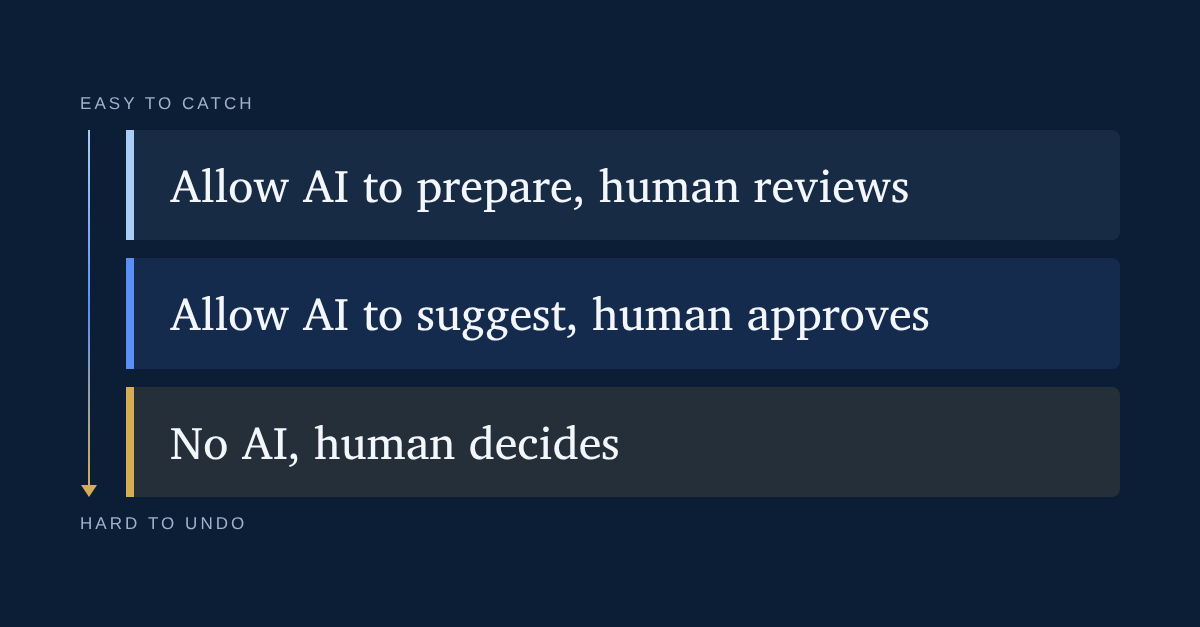
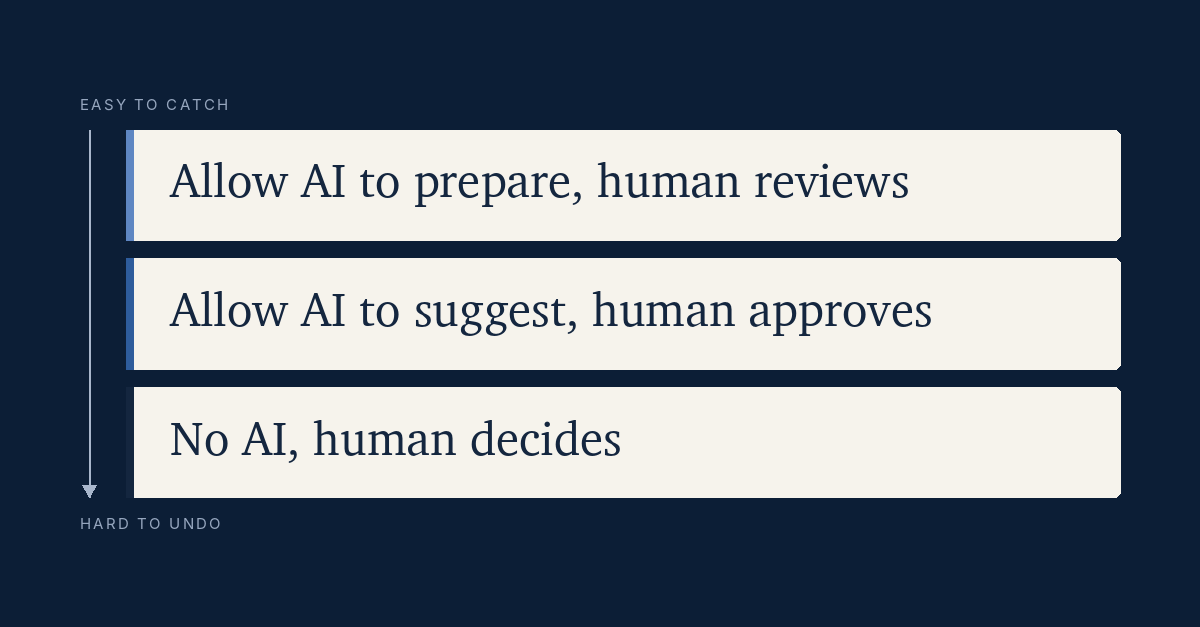
Article: tier colours, plainer wording, restyled follow band, refreshed card and link preview
Claude-Session: https://claude.ai/code/session_01JedePvJQ8Qd9hmyDd4eBzK

diff --git a/articles/start-where-mistakes-are-cheap/index.html b/articles/start-where-mistakes-are-cheap/index.html
@@ -57,6 +57,7 @@
 
   .art-head { padding: 52px 0 8px; }
   .back-bar { position: sticky; top: var(--sn-h, 52px); z-index: 15; background: var(--white); border-bottom: 1px solid var(--line); }
+  .back-bar .wrap { padding-top: 6px; padding-bottom: 6px; }
   .back-link { display: inline-flex; align-items: center; min-height: 44px; font-family: var(--sans); font-size: 15px; font-weight: 600; color: var(--navy); text-decoration: none; }
   .back-link:hover { color: var(--gold-text); }
   .kicker { font-family: var(--sans); font-size: 12px; letter-spacing: 0.16em; text-transform: uppercase; font-weight: 700; color: var(--gold-text); }
@@ -74,7 +75,7 @@
   .tiers .l { display: block; font-size: 16.5px; font-weight: 700; line-height: 1.3; }
   .glance .note { margin: 12px 0 0; font-family: var(--sans); font-size: 13.5px; color: var(--muted); }
   .tiers .t { display: block; font-size: 15px; line-height: 1.45; color: var(--muted); margin-top: 3px; }
-  .t1 { border-color: var(--pale) !important; } .t2 { border-color: var(--blue) !important; } .t3 { border-color: var(--gold) !important; }
+  .t1 { border-color: #5E86C2 !important; } .t2 { border-color: #2E5C9C !important; } .t3 { border-color: var(--navy) !important; }
 
   h2 { font-family: var(--serif); font-weight: 700; font-size: clamp(25px, 3.4vw, 30px); line-height: 1.2; margin: 52px 0 14px; letter-spacing: -0.005em; }
   h3 { font-family: var(--sans); font-weight: 700; font-size: 18px; line-height: 1.3; margin: 30px 0 8px; padding-left: 14px; border-left: 5px solid; }
@@ -82,16 +83,17 @@
   ul.tasks li { position: relative; margin: 0 0 6px; padding-left: 18px; }
   ul.tasks li::before { content: ""; position: absolute; left: 0; top: 0.62em; width: 8px; height: 8px; border-radius: 50%; background: currentColor; }
   ul.tasks { border: 0 !important; }
-  ul.tasks.t1 li::before { background: var(--pale); } ul.tasks.t2 li::before { background: var(--blue); } ul.tasks.t3 li::before { background: var(--gold); }
+  ul.tasks.t1 li::before { background: #5E86C2; } ul.tasks.t2 li::before { background: #2E5C9C; } ul.tasks.t3 li::before { background: var(--navy); }
   p { margin: 0 0 18px; }
   ol { margin: 0 0 18px; padding-left: 26px; }
   ol li { margin: 0 0 10px; padding-left: 4px; }
   .key { font-style: italic; font-size: 23px; line-height: 1.42; color: var(--navy); margin: 36px 0; padding: 4px 0 4px 20px; border-left: 3px solid var(--gold-light); }
   .box { background: var(--paper); border-radius: 8px; padding: 20px 24px 4px; margin: 40px 0 0; }
   .box .kicker { margin-bottom: 8px; }
-  .follow { margin-top: 40px; padding: 20px 24px; background: var(--paper); border-radius: 8px; font-family: var(--sans); font-size: 16px; line-height: 1.5; }
+  .follow { margin-top: 40px; padding: 22px 26px 12px; background: var(--navy-deep); color: var(--white); border-radius: 8px; font-family: var(--sans); font-size: 16px; line-height: 1.5; }
   .follow p { margin: 0 0 12px; }
-  .follow a { display: inline-block; min-height: 44px; line-height: 44px; margin-right: 20px; font-weight: 600; color: var(--navy); text-decoration: none; border-bottom: 2px solid var(--gold); }
+  .follow a { display: inline-block; min-height: 44px; line-height: 44px; margin-right: 22px; font-weight: 600; color: var(--white); text-decoration: none; border-bottom: 2px solid var(--gold-light); }
+  .follow a:focus-visible { outline-color: var(--gold-light); }
   .end { border-top: 1px solid var(--line); margin-top: 48px; padding: 18px 0 8px; font-family: var(--sans); font-size: 14px; line-height: 1.55; color: var(--muted); }
   footer { border-top: 1px solid var(--line); padding: 20px 0 40px; font-family: var(--sans); font-size: 13px; color: var(--muted); }
 
@@ -159,11 +161,11 @@
       <li class="t2"><span class="l">Allow AI to suggest, human approves</span><span class="t">Cash sweeps &middot; Hedge execution</span></li>
       <li class="t3"><span class="l">No AI, human decides</span><span class="t">Payment release</span></li>
     </ul>
-    <p class="note">Examples only, not a full list.</p>
+    <p class="note">A darker bar means higher risk and less AI. Examples only, not a full list.</p>
   </section>
 
   <p>Most Treasury teams are under pressure to show progress on AI. The first question is usually what AI can do. A better question is what happens when it gets something wrong.</p>
-  <p>An AI mistake can be cheap or costly, depending on the task. If AI drafts a cash commentary with a wrong number, the reader spots it and you lose ten minutes. If AI releases a payment to the wrong supplier, nobody notices until the supplier calls, and the money may not come back. Start with tasks like the first, not the second.</p>
+  <p>An AI mistake can cost little or a lot, depending on the task. If AI drafts a cash commentary with a wrong number, the reader spots it and you lose ten minutes. If AI releases a payment to the wrong supplier, nobody notices until the supplier calls, and the money may not come back. Start with tasks like the first, not the second.</p>
 
   <h2>Four questions to ask before handing a task to AI</h2>
   <ol>
@@ -174,30 +176,16 @@
   </ol>
 
   <h2>Which Treasury tasks can AI automate?</h2>
-  <p>Apply the four questions above, and most Treasury tasks fall into three groups. Here are typical examples of each.</p>
+  <p>Apply the four questions above, and most Treasury tasks fall into three groups. The examples are in the box at the top. Here is how each group works.</p>
 
   <h3 class="t1">Allow AI to prepare, human reviews</h3>
-  <ul class="tasks t1">
-    <li>Cash commentary</li>
-    <li>Forecast versus actual notes</li>
-    <li>Bank queries</li>
-    <li>Flagging exceptions</li>
-  </ul>
   <p><em>Why it&rsquo;s safe:</em> a person reads the output before anything is sent or posted, and the source data is close at hand. If AI gets it wrong, you lose only a few minutes.</p>
 
   <h3 class="t2">Allow AI to suggest, human approves</h3>
-  <ul class="tasks t2">
-    <li>Cash sweeps</li>
-    <li>Hedge execution</li>
-  </ul>
   <p><em>How it works:</em> start only after the AI&rsquo;s suggestions have been tested and found reliable. A person approves each action, and every approval is recorded. Set limits, such as maximum amounts, in the banking and payment systems themselves, not in the AI&rsquo;s instructions. Then even a wrong suggestion cannot go past them.</p>
 
   <h3 class="t3">No AI, human decides</h3>
-  <ul class="tasks t3">
-    <li>Payment release</li>
-    <li>Anything irreversible or time critical</li>
-  </ul>
-  <p><em>Before automation comes near it:</em> agree limits, approvals and an escalation path. Make sure you can quickly remove the AI&rsquo;s access to your banking and payment systems, return to the manual process, and test that fallback.</p>
+  <p><em>Payment release, and anything irreversible or time critical, stays with a person.</em> Before automation comes near it, agree limits, approvals and an escalation path. Make sure you can quickly remove the AI&rsquo;s access to your banking and payment systems, return to the manual process, and test that fallback.</p>
 
   <p class="key">Speed is not the goal. Being able to show your auditor exactly what the AI is allowed to do is.</p>
 
